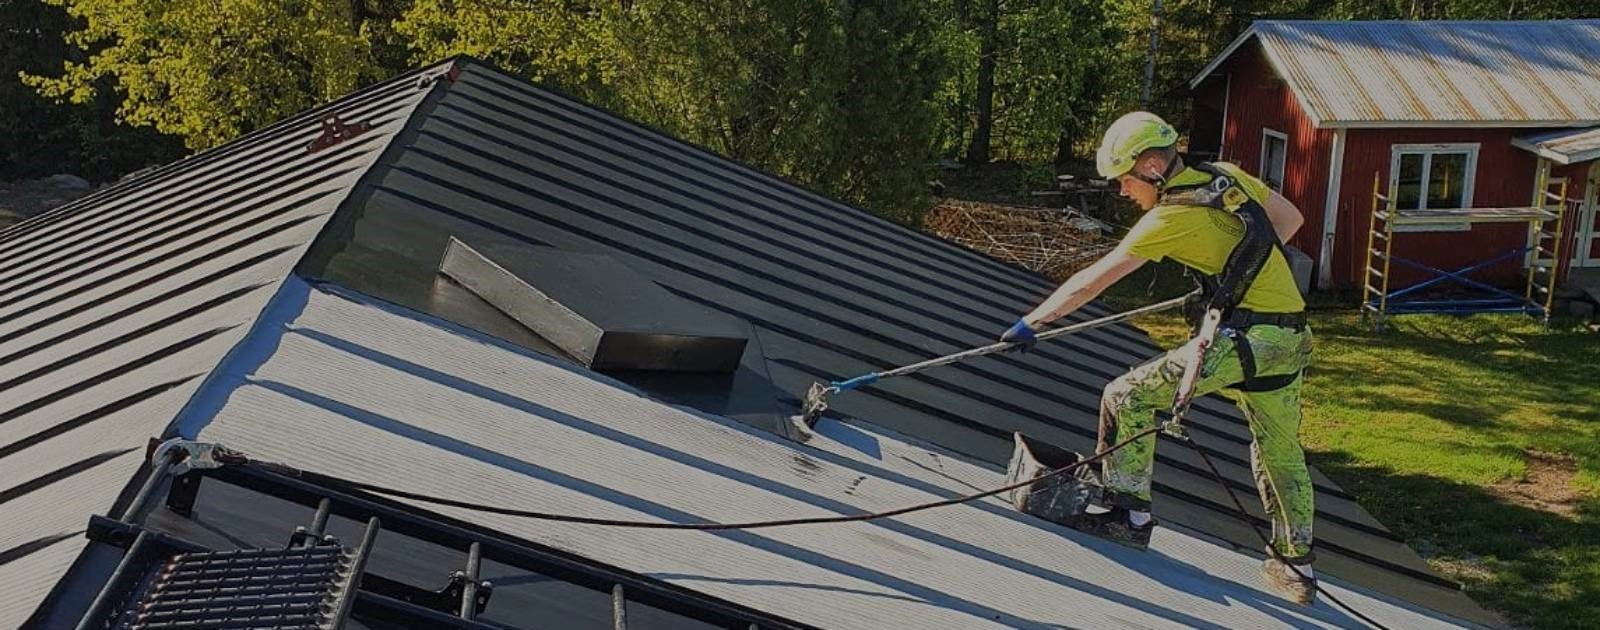
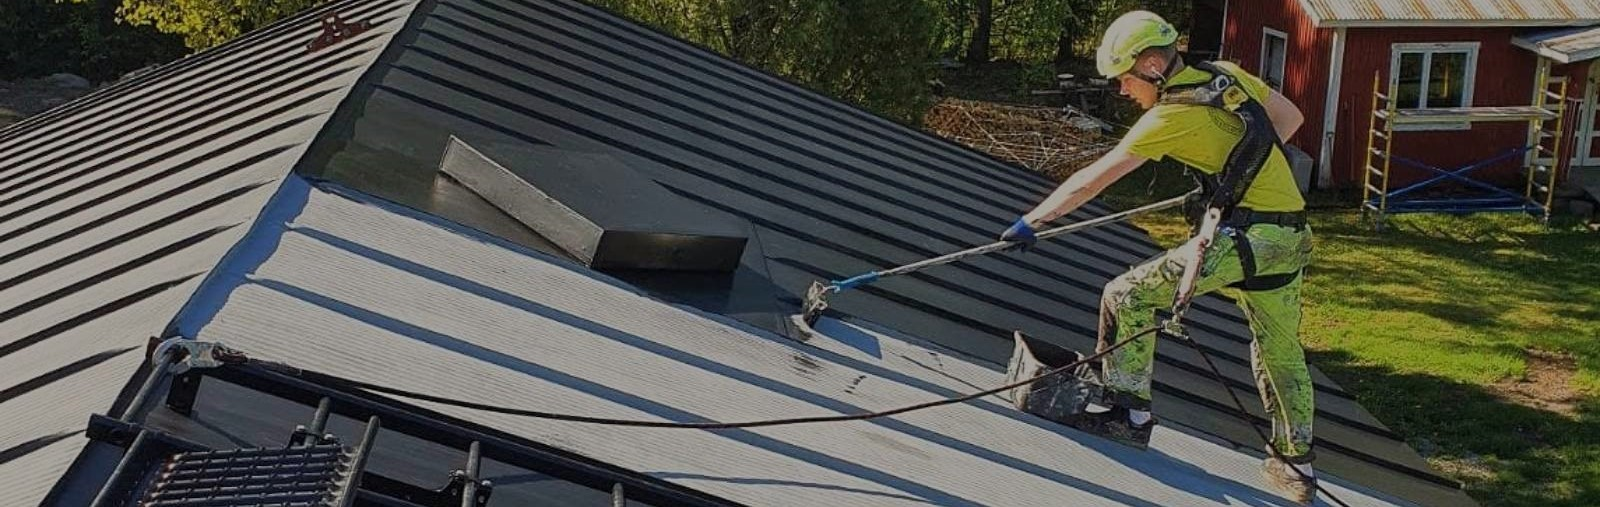
kuvan vaihto

diff --git a/tyyli.css b/tyyli.css
@@ -1,20 +1,10 @@
 /*tietokoneen ruudulle*/
 @media only screen and (min-width: 1025px) {
-
-    /*index.html sivun yläreuna */
-    #etusivu {
-        background-image: url(Kuvat/aloituskuva.jpg);
-        background-size: cover;
-        text-align: center;
-        padding-top: 10px;
-        padding-bottom: 100px;
-
-        h1 {
-            color: #f2f2f2;
-            font-size: 30px;
-        }
+    /*logo kuvan määritykset*/
+    #logo {
+        width: 100%;
+        max-width: 350px;
     }
-
 
     body {
         margin-left: 60px;
@@ -40,21 +30,11 @@
 
 /*tablettikoko*/
 @media only screen and (min-width: 601px) and (max-width: 1024px) {
-
-    /*index.html sivun yläreuna */
-    #etusivu {
-        background-image: url(Kuvat/aloituskuva.jpg);
-        background-size: cover;
-        text-align: center;
-        padding-top: 75px;
-        padding-bottom: 75px;
-
-        h1 {
-            color: #f2f2f2;
-            font-size: 25px;
-        }
+    /*logo kuvan määritykset*/
+    #logo {
+        width: 100%;
+        max-width: 350px;
     }
-
 
     body {
         margin-left: 40px;
@@ -87,23 +67,6 @@
         width: 100%;
         max-width: 300px;
     }
-
-    /*index.html sivun yläreuna */
-    #etusivu {
-        background-image: url(Kuvat/aloituskuva.jpg);
-        background-size: cover;
-        text-align: center;
-        padding-top: 50px;
-        padding-bottom: 50px;
-        width: 100%;
-
-        h1 {
-            color: #f2f2f2;
-            font-size: 20px;
-        }
-
-    }
-
 
     body {
         margin-left: 20px;
@@ -159,7 +122,7 @@ body {
 
     h1 {
         color: #403c01;
-        font-size: 28px;
+        font-size: 24px;
     }
 
     h2 {
@@ -179,6 +142,7 @@ body {
     display: flex;
     justify-content: center;
     align-items: center;
+    text-align: center;
 }
 
 /* Linkki teksteissä, jossa ei ole aiemmin käyty */
@@ -254,6 +218,11 @@ ul {
     font-size: 18px;
 }
 
+/*index.html sivulla oleva kuva*/
+#aloituskuva {
+    width: 100%;
+    max-width: 1200px;
+}
 
 
 /*peltikatonmaalaus.html sivun elementtien asettelua*/

diff --git a/index.html b/index.html
@@ -32,15 +32,15 @@
 		</nav>
 	</div>
 
-	<header id="etusivu">
-		<h1>Peltikaton maalausta Uudellemaalla perinteisellä sivellinmenetelmällä</h1>
-	</header>
+	<img id="aloituskuva" src="Kuvat/aloituskuva1.jpg"
+		alt=" maalari on katolla valjaat päällään ja maalaa peltikattoa mustaksi pensselillä, jossa on pitkä varsi">
 
+	<div class="keskitys"><h1>Peltikaton maalausta Uudellemaalla perinteisellä sivellinmenetelmällä</h1></div>
 	<div class="keskitys">
 		<p>Onko vanha peltikatto ruosteessa? <br>
 			Hilseileekö maali? <br>
 			Uusi katto vuosien hapettama, mutta vailla maalipintaa? <br>
-			Ei hätää, me hoidamme homman. 
+			Ei hätää, me hoidamme homman.
 		</p>
 	</div>
 	<!--navigaatiokehoite-->
